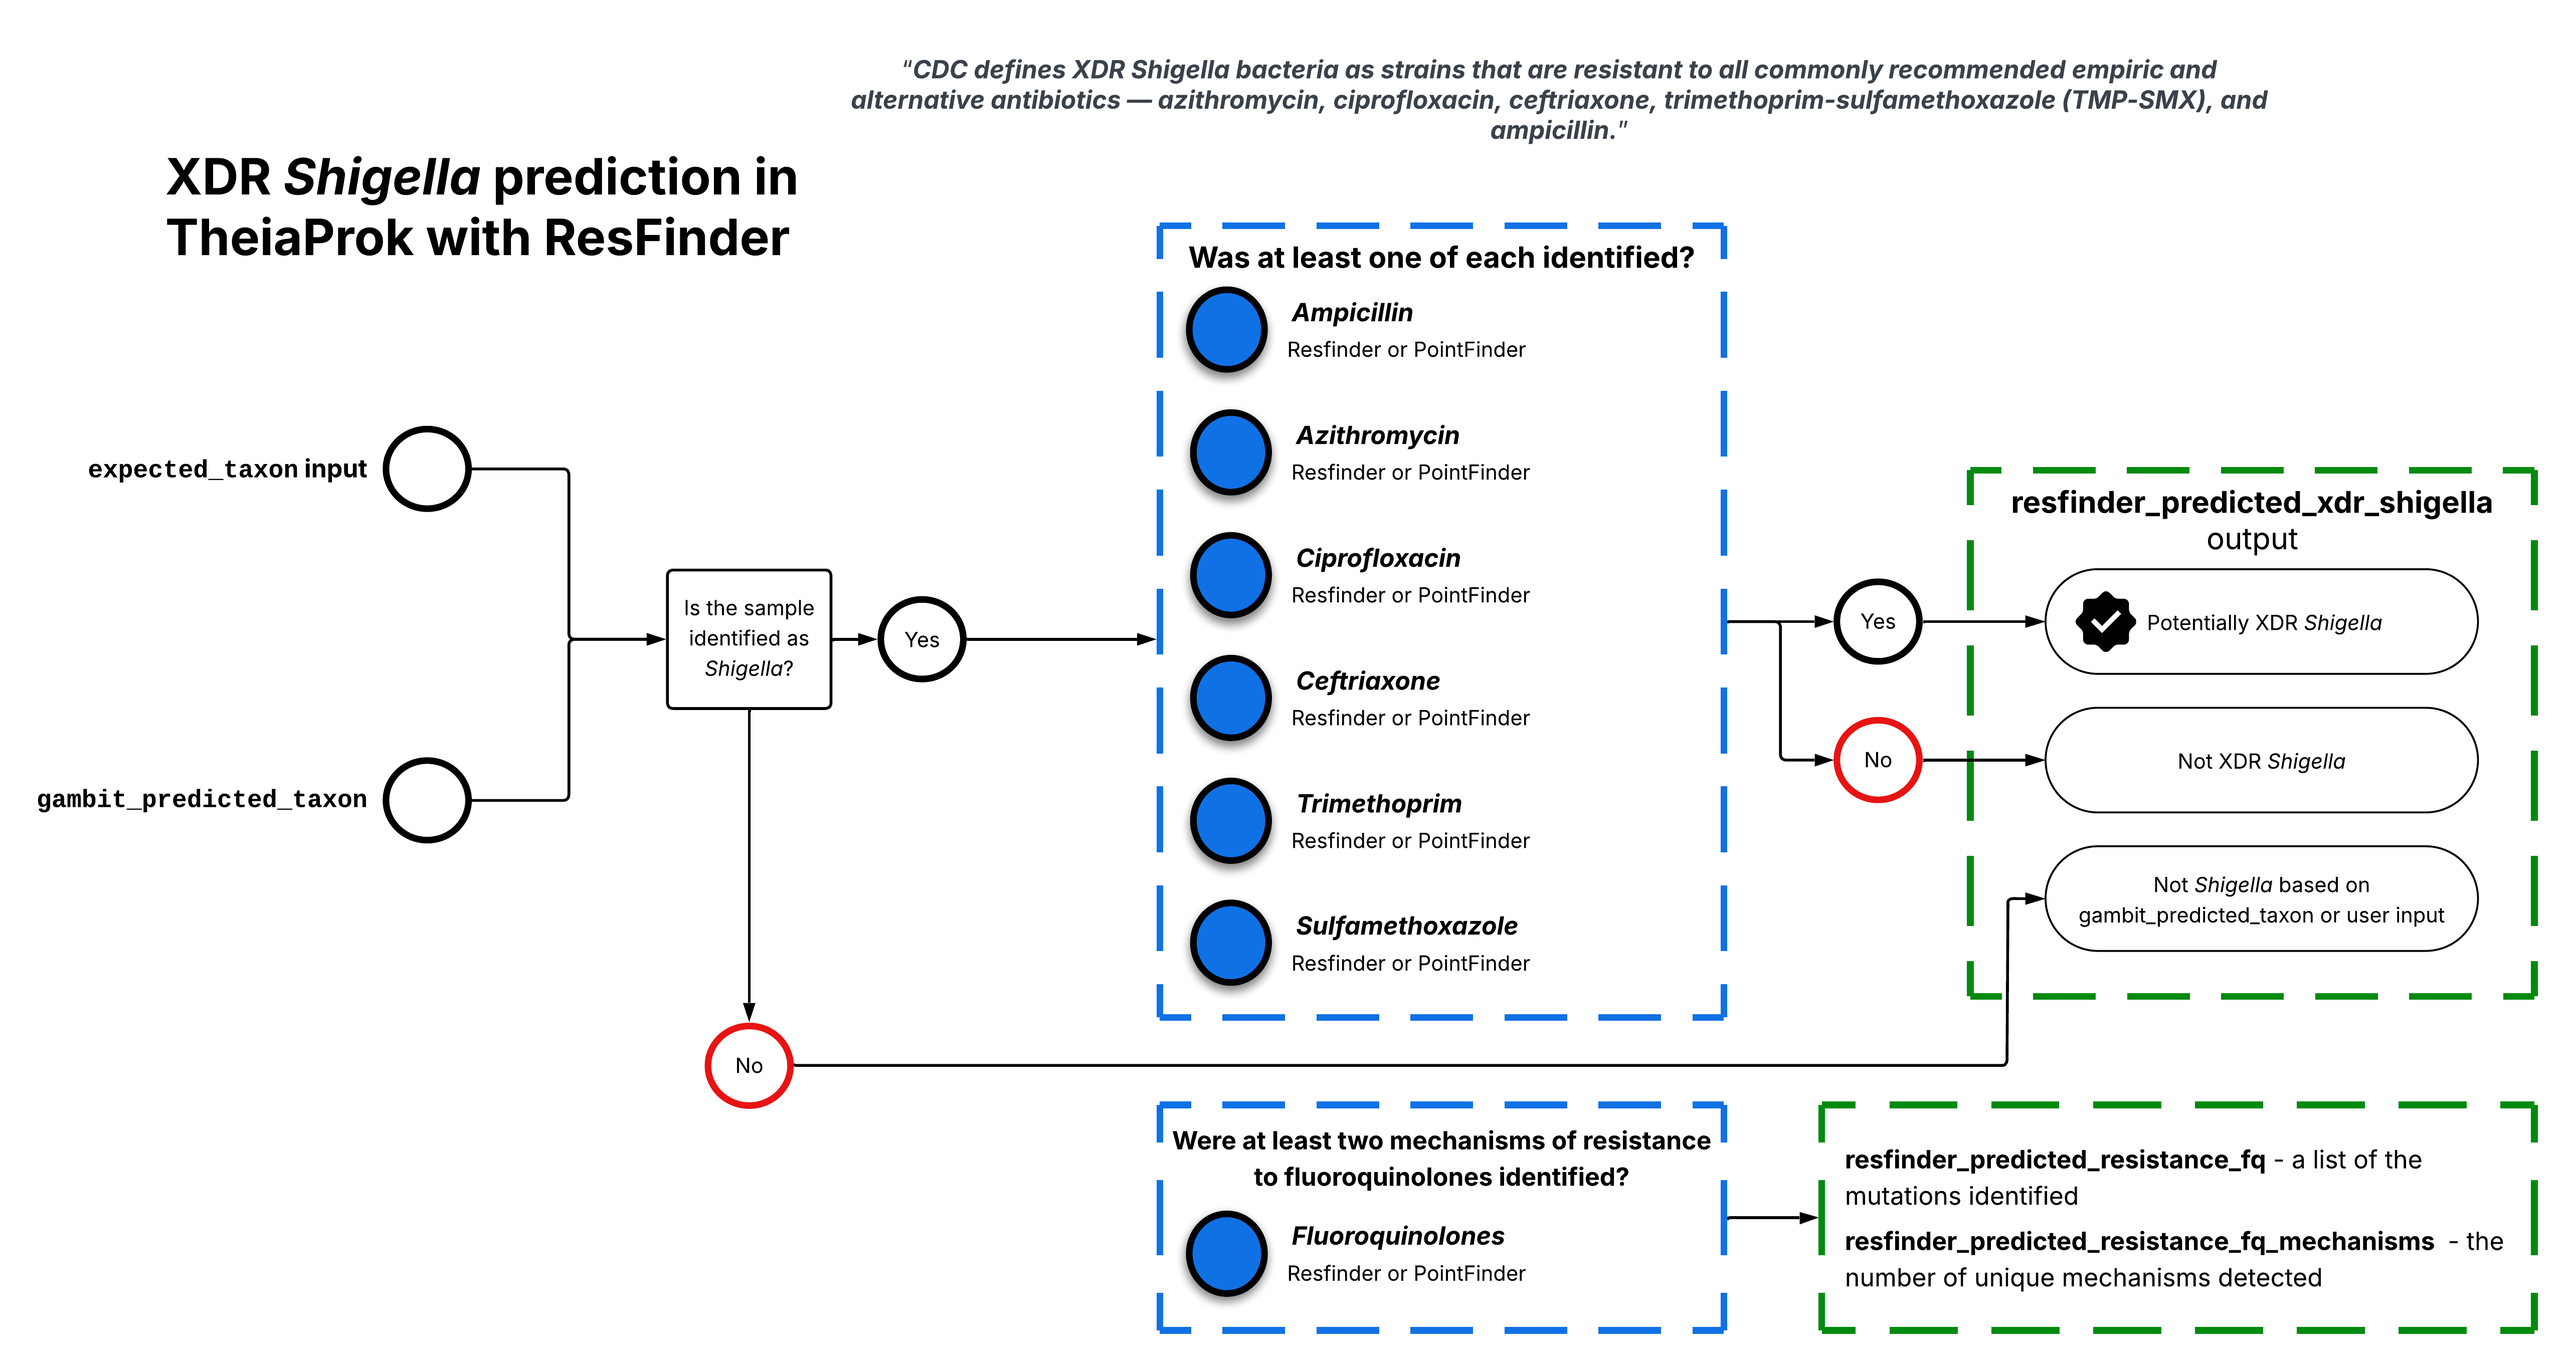
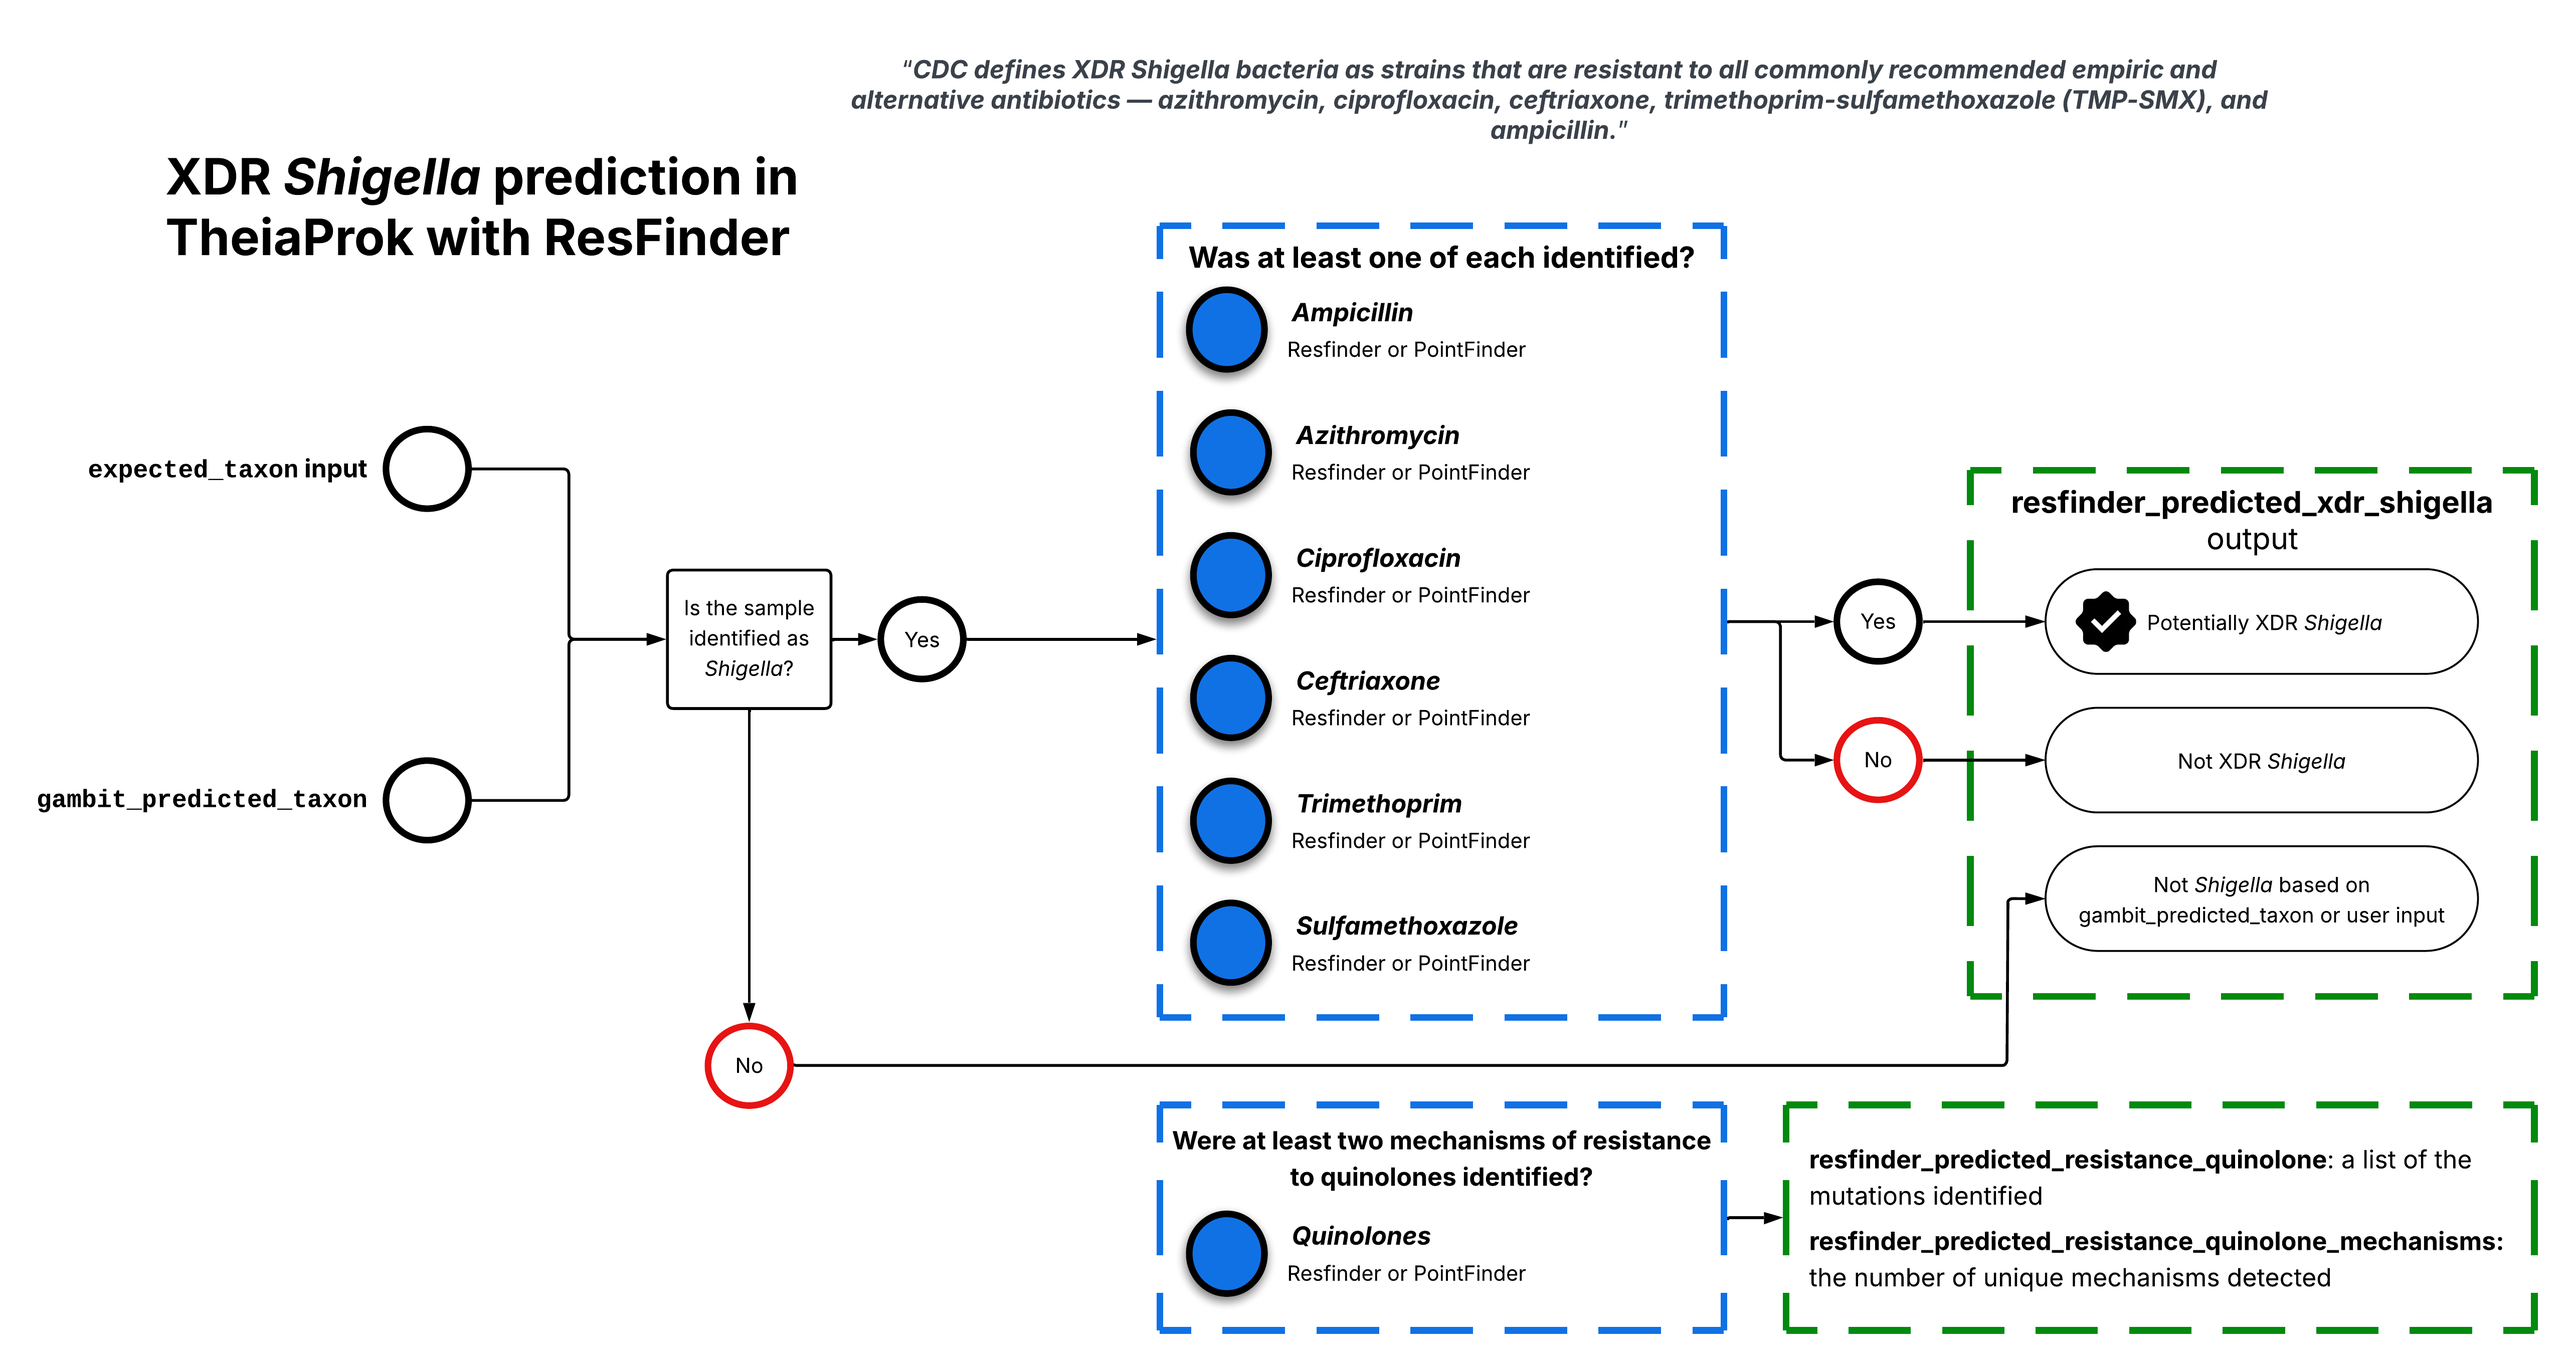
fq -> quinolone

Changed region(s): [[0.6851, 0.7761, 0.9654, 0.9934], [0.4982, 0.8382, 0.6228, 0.8692], [0.4982, 0.9003, 0.5605, 0.9313]]

diff --git a/docs/common_text/resfinder_task.md b/docs/common_text/resfinder_task.md
@@ -58,6 +58,8 @@
     
         Feel free to contact us at <support@theiagen.com> for assistance in interpreting these results.
 
+        If you detect an XDR Shigella sample, please contact your state and local epidemiologists so they can be informed!
+
     !!! techdetails "ResFinder Technical Details"
         
         |  | Links |
